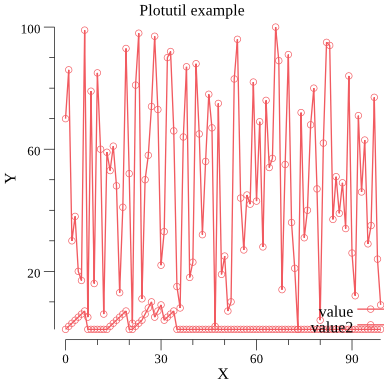
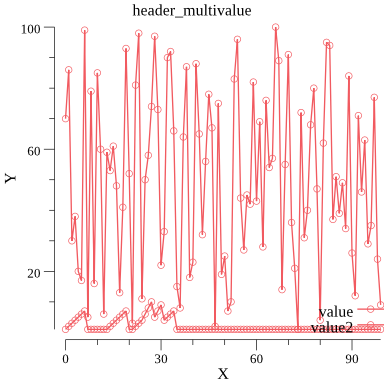
タイトルをセットできるようにした

Changed region(s): [[0.3438, 0.0, 0.6562, 0.0625]]

diff --git a/main.go b/main.go
@@ -89,18 +89,20 @@ func readLines(r *os.File) ([]string, error) {
 	return lines, nil
 }
 
+// writeGraph は入力文字列からグラフ画像を出力する。
 func writeGraph(lines []string, opts options.Options, ofn string) error {
 	p, err := plot.New()
 	if err != nil {
 		return err
 	}
 
+	// グラフ出力のためのプロットデータを算出する
 	graphs, err := graph.GetGraphs(lines, opts)
 	if err != nil {
 		return err
 	}
 
-	p.Title.Text = "Plotutil example"
+	p.Title.Text = opts.Title
 	p.X.Label.Text = "X"
 	p.Y.Label.Text = "Y"
 

diff --git a/internal/options/options.go b/internal/options/options.go
@@ -3,6 +3,7 @@ package option
 // options オプション引数
 type Options struct {
 	Version     func() `short:"v" long:"version" description:"バージョン情報"`
+	Title       string `long:"title" description:"出力グラフのタイトル"`
 	Type        string `short:"t" long:"type" description:"出力グラフタイプ" default:"line"`
 	Separator   string `short:"s" long:"separator" description:"入力データのセパレータ" default:"\t"`
 	Width       int    `long:"width" description:"出力画像横幅(px)" default:"1280"`

diff --git a/main_test.go b/main_test.go
@@ -17,13 +17,16 @@ func TestPlt(t *testing.T) {
 	testdatas := []TestPltData{
 		TestPltData{
 			args: []string{"testdata/in/value_only.tsv", "testdata/out/value_only.png"},
-			opts: options.Options{},
-			err:  nil,
+			opts: options.Options{
+				Title: "value_only",
+			},
+			err: nil,
 		},
 		TestPltData{
 			args: []string{"testdata/in/header_multivalue.tsv", "testdata/out/header_multivalue.png"},
 			opts: options.Options{
 				Separator: "\t",
+				Title:     "header_multivalue",
 			},
 			err: nil,
 		},

diff --git a/README.md b/README.md
@@ -5,10 +5,11 @@
 
 ## TODO
 
-- [ ] タイトルの明示
 - [ ] ラベルの明示
 - [ ] MIN
 - [ ] MAX
+- [ ] GetGraphsはおかしい。命名見直し
+- [ ] splitLinesで余計なことしすぎ
 
 ## 使い方
 
